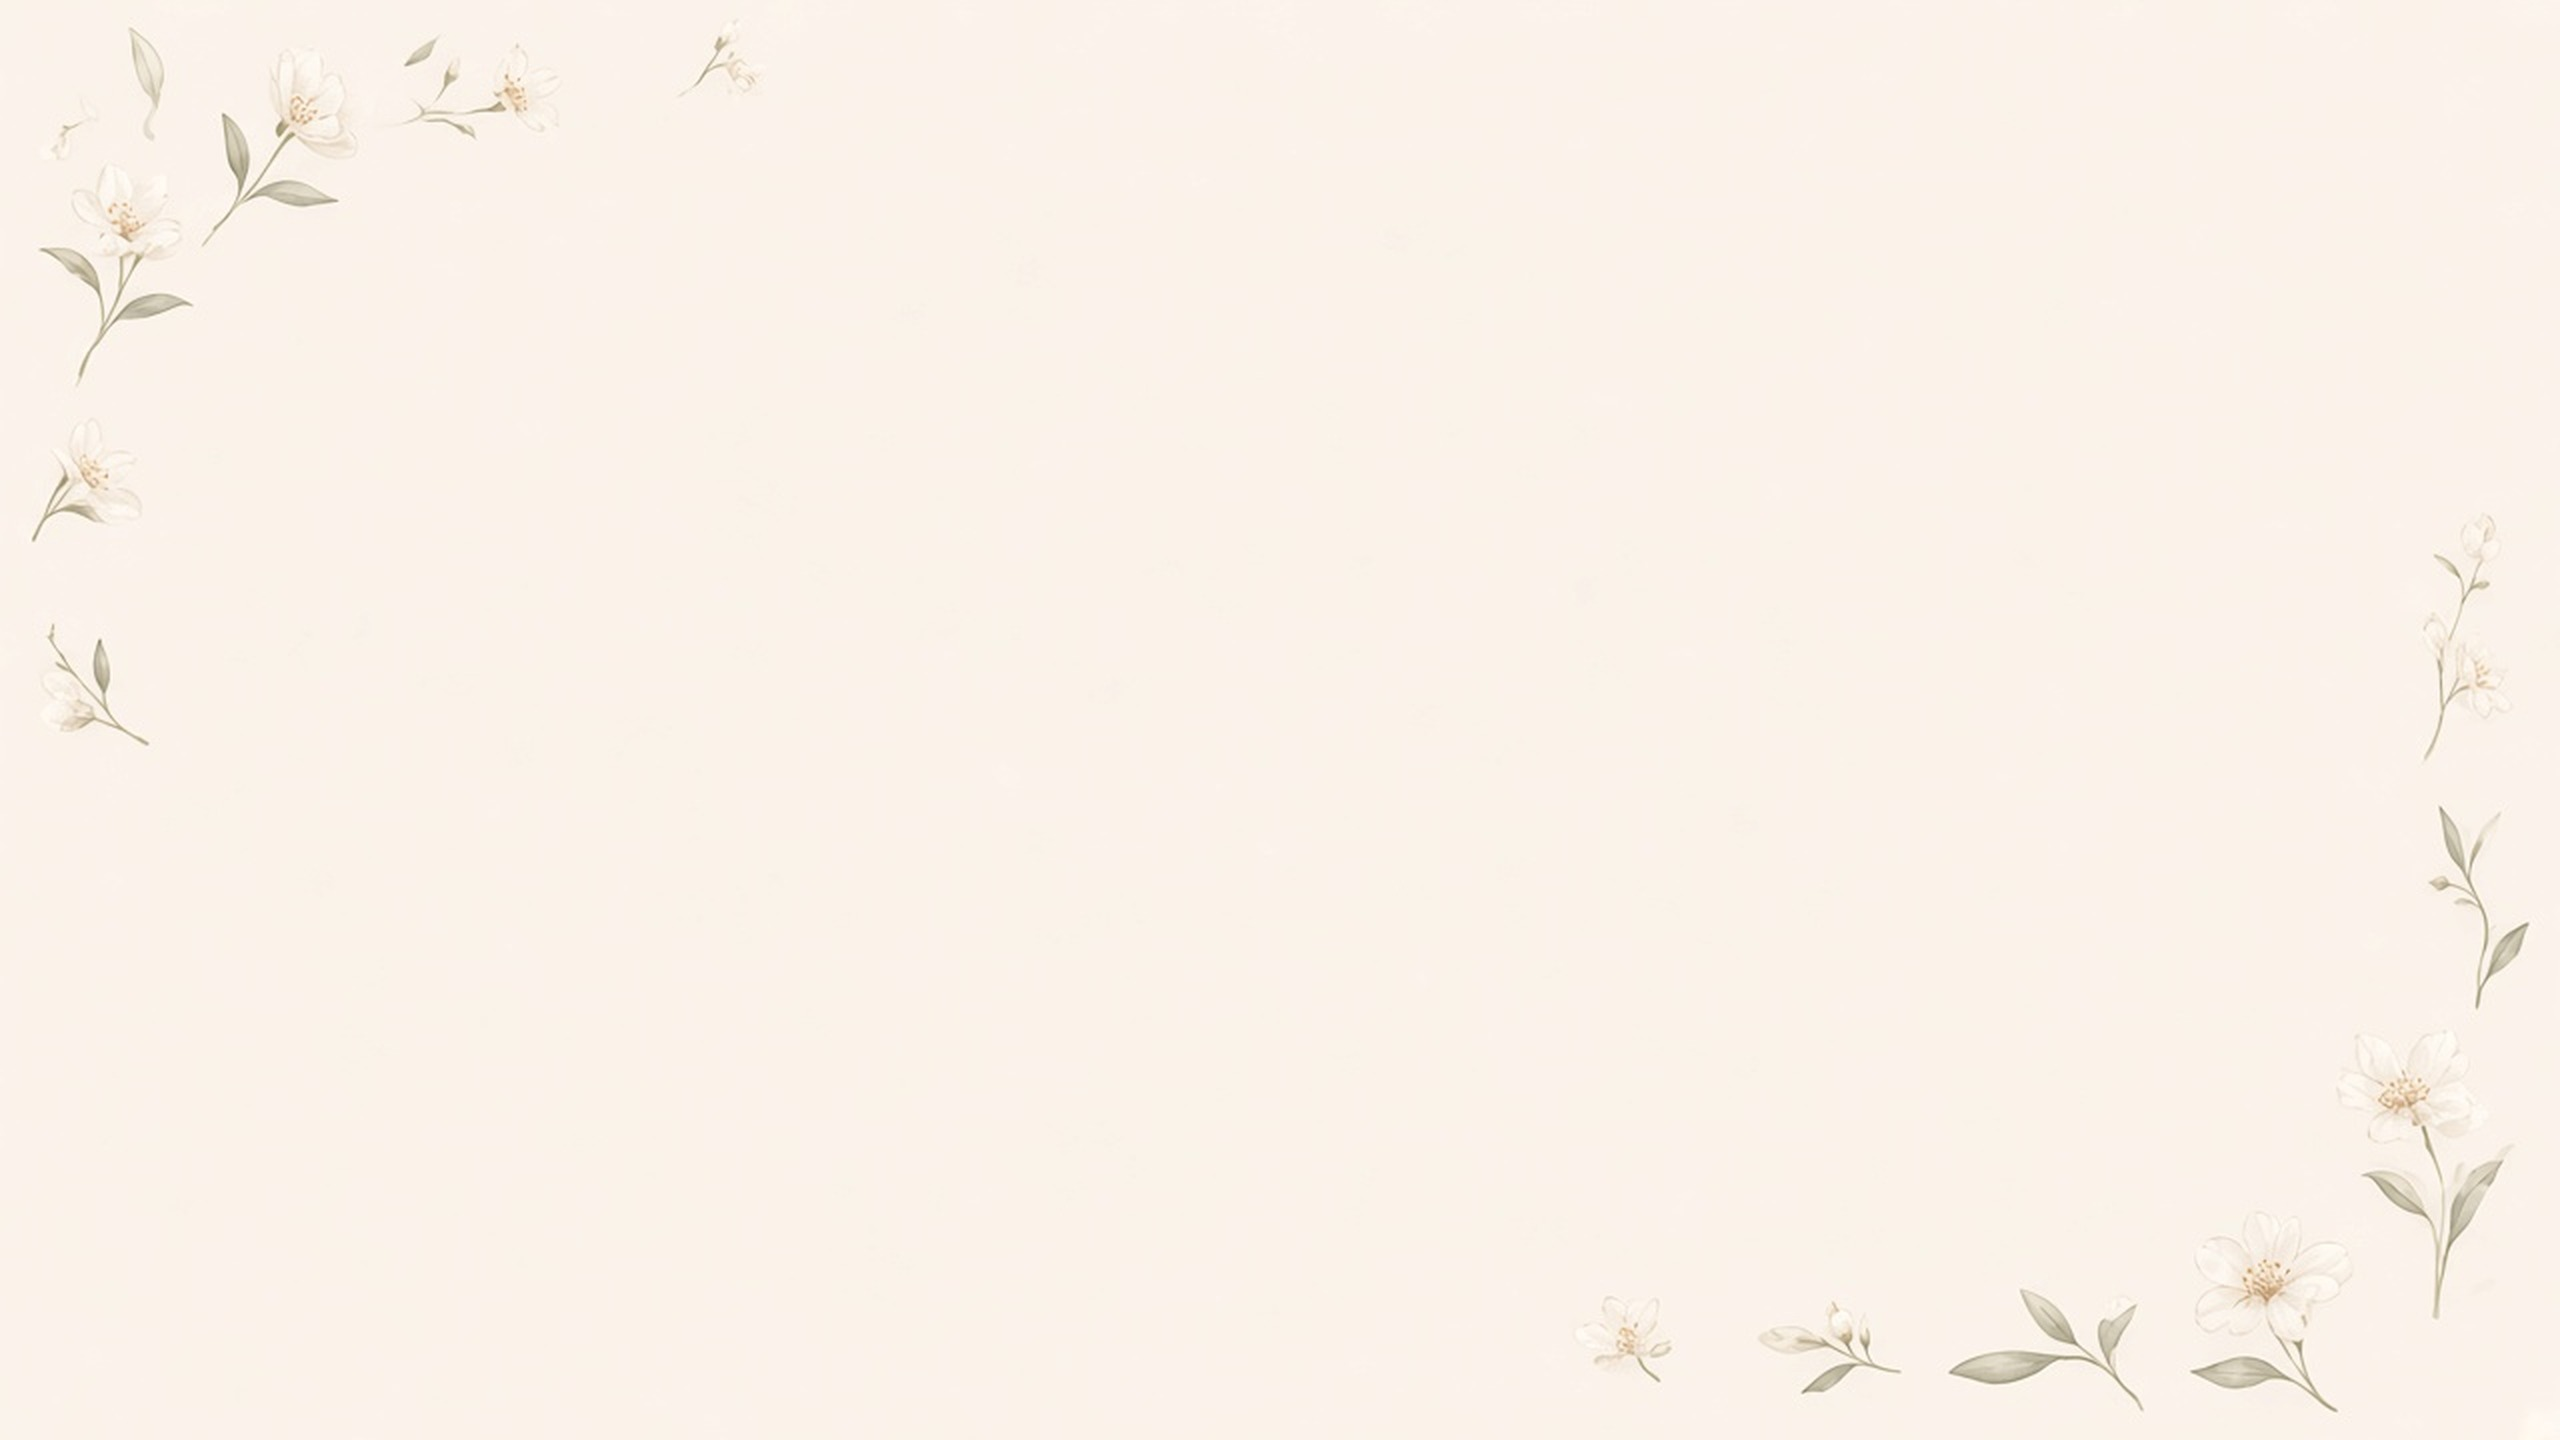
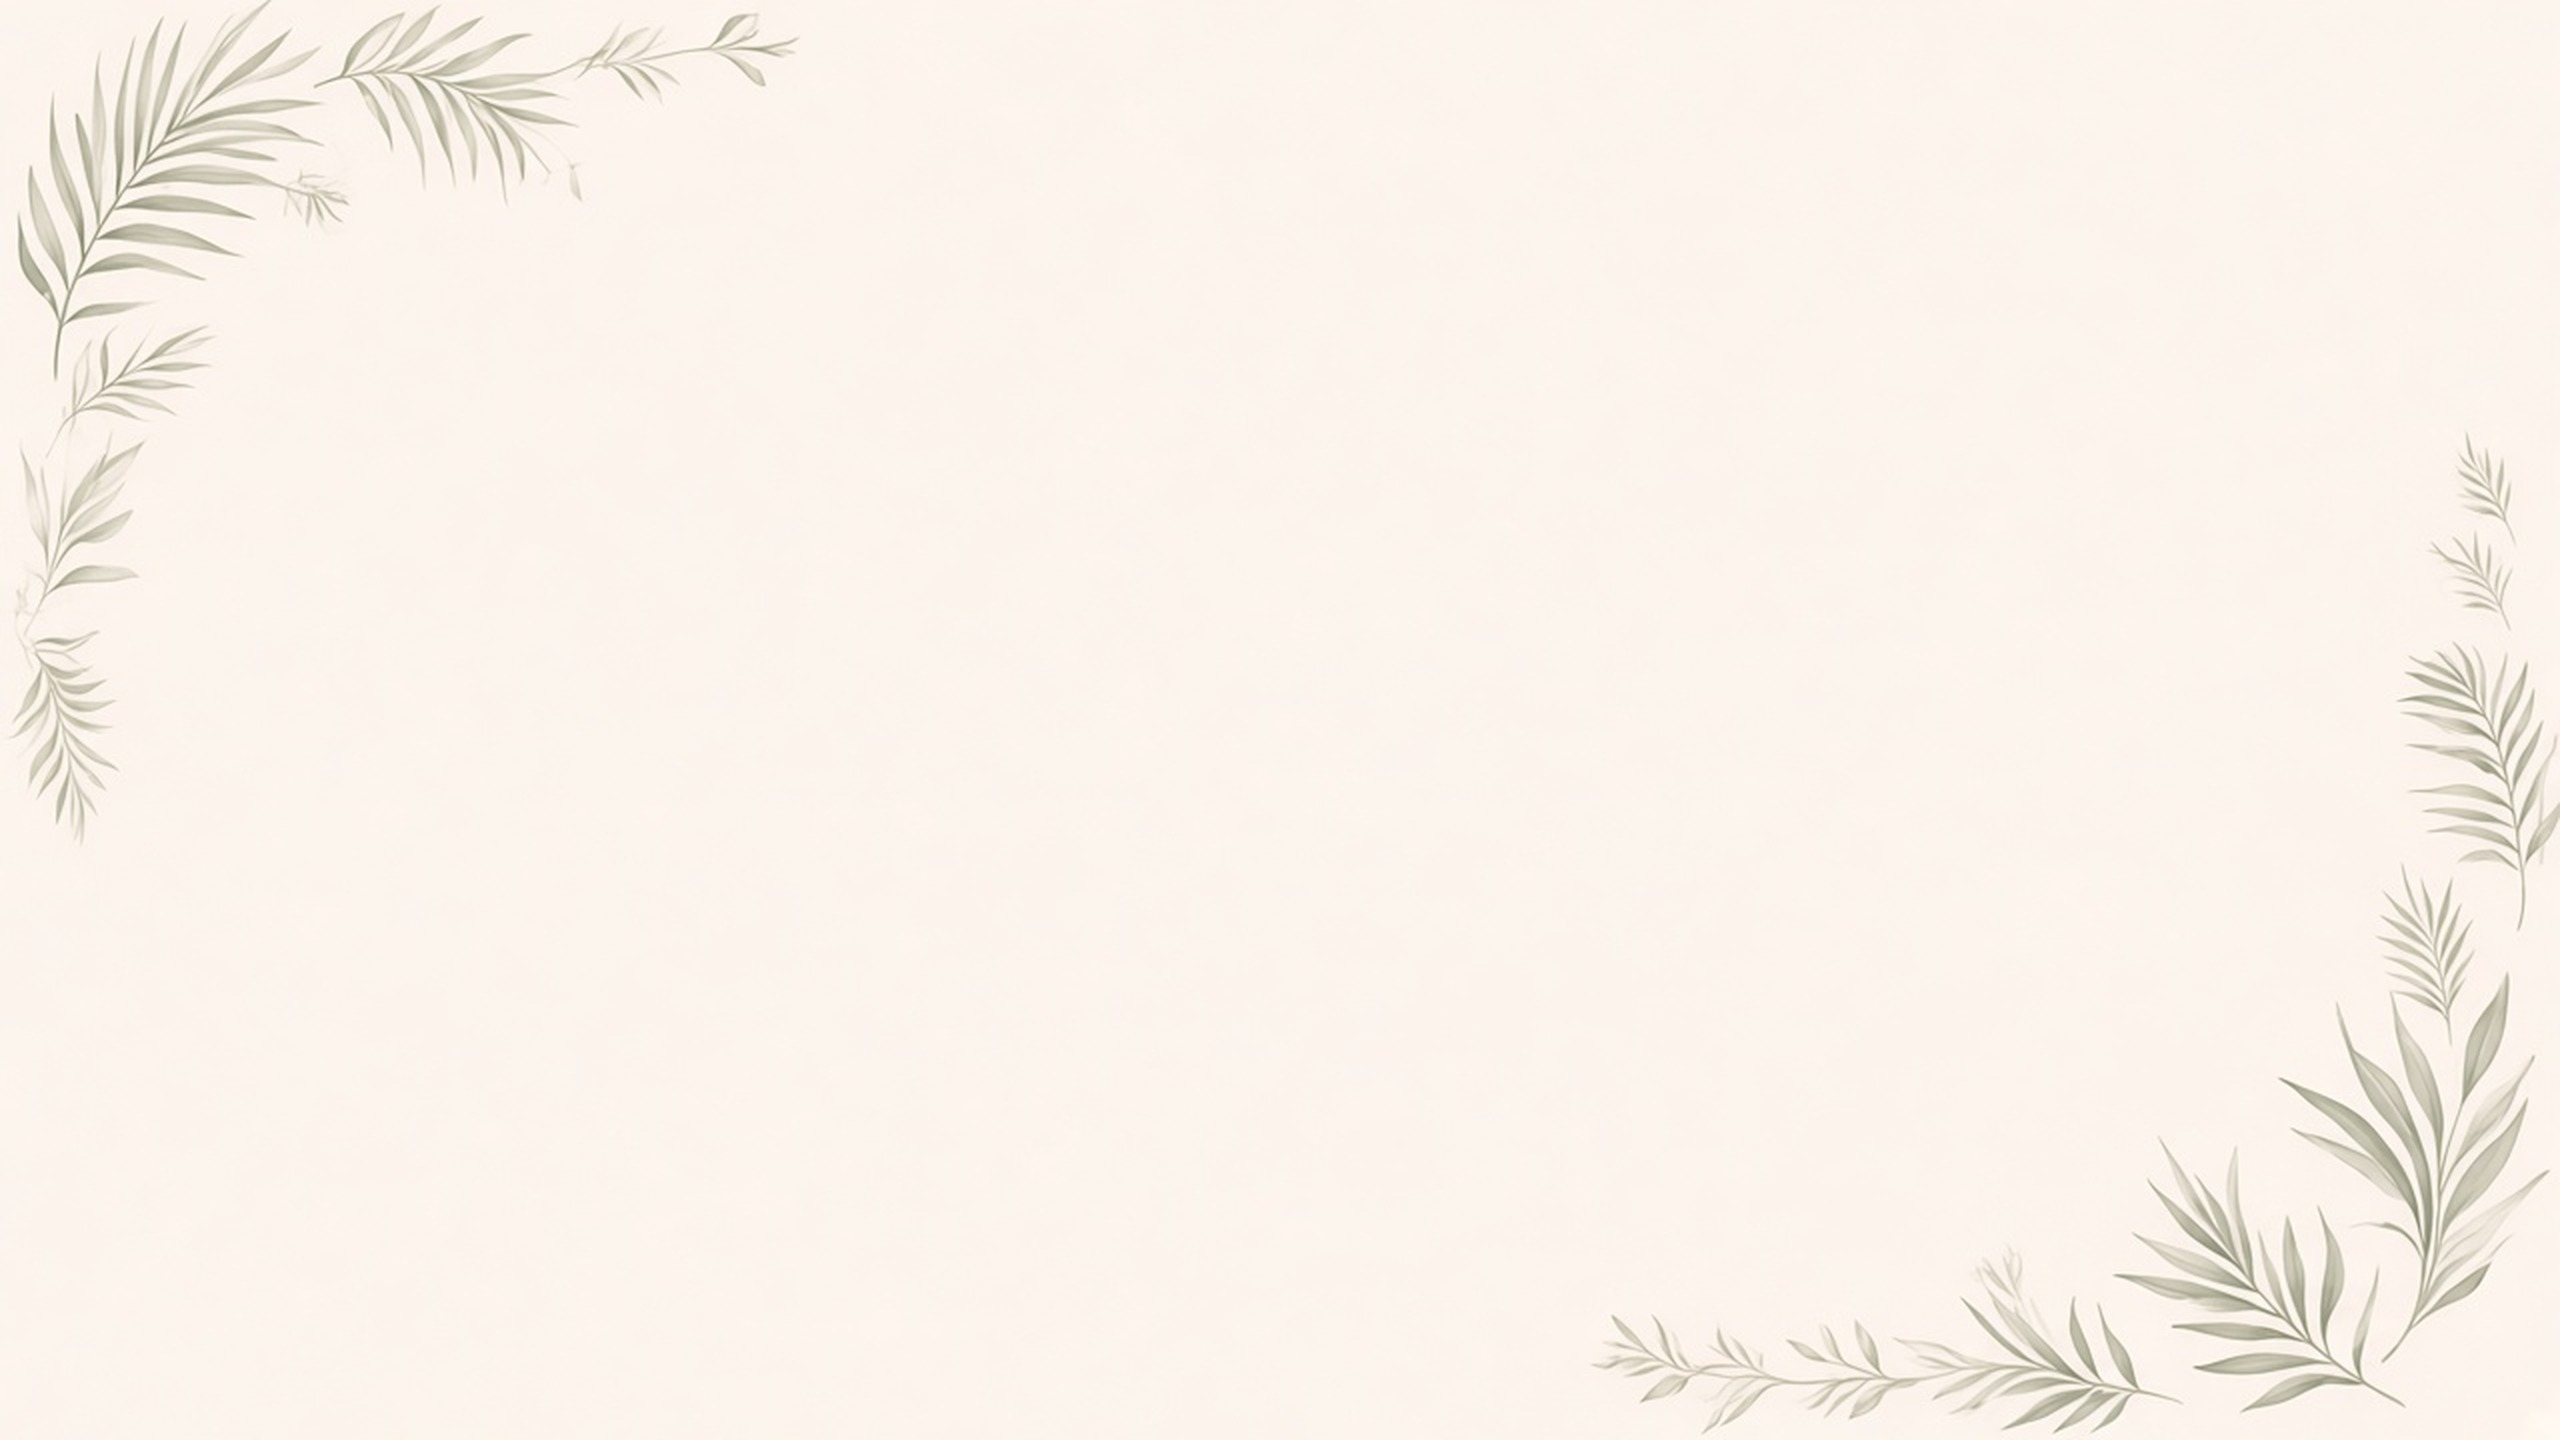
Replace Concept flora with palm leaves
Swap the jasmine frame illustration for soft watercolor palm leaves in
the same corner composition, and remove the logo mark under the Concept
copy for a cleaner section.

diff --git a/index.html b/index.html
@@ -151,9 +151,6 @@
             Inspired by Goa’s easy elegance, the club brings together sport, wellness, dining and celebration —
             spaces curated for shared experiences and lasting bonds.
           </p>
-          <div class="about__mark" data-reveal="ctn" aria-hidden="true">
-            <img src="/assets/logos/cdp-logo-transparent.png" alt="" width="56" height="56" />
-          </div>
         </div>
       </section>
 

diff --git a/src/styles/sections.css b/src/styles/sections.css
@@ -180,18 +180,6 @@
   text-wrap: pretty;
 }
 
-.about__mark {
-  margin-top: clamp(0.5rem, 1.5vw, 1rem);
-  width: 2.75rem;
-  opacity: 0.72;
-}
-
-.about__mark img {
-  width: 100%;
-  height: auto;
-  display: block;
-}
-
 @media (max-width: 720px) {
   .section.about {
     min-height: auto;
